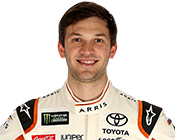
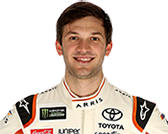
fixed card front sizes for 5 drivers

diff --git a/Index.html b/Index.html
@@ -30,15 +30,14 @@
 </head>
 <body>
 <div class="background">
-    <img src="Images/background/Jimmie_2048x1309.jpg" class="background" class="img-responsive">
-
+    <img src="Images/background/Jimmie_2048x1309.jpg" class="background img-responsive">
 </div>
 <div class="container-fluid">
     <div class="header">
-        <div class="logo col-xs-1">
+        <div class="logo col-xs-2">
             <button class="btn btn-default btn-xs dropdown-toggle" type="button" data-toggle="dropdown">Board<span class="caret"></span></button>
             <ul class="dropdown-menu">
-                <li><a href="index.html" class="daytona">Daytona Driver/Driver</a></li>
+                <li><a href="Index.html" class="daytona">Daytona Driver/Driver</a></li>
                 <li><a href="Daytona2.html" class="daytona">Daytona Driver/Car</a></li>
                 <li><a href="Charlotte.html" class="charlotte">Charlotte Driver/Driver</a></li>
                 <li><a href="Charlotte2.html" class="charlotte">Charlotte Driver/Car</a></li>
@@ -46,13 +45,13 @@
                 <li><a href="Bristol2.html" class="bristol">Bristol Driver/Car</a></li>
             </ul>
         </div>
-        <div class="logo col-xs-1">
+        <!--<div class="logo col-xs-1">
             <button class="btn btn-default btn-xs dropdown-toggle" type="button" data-toggle="dropdown">Level<span class="caret"></span></button>
             <ul class="dropdown-menu">
                 <li><a href="#">Easy</a></li>
                 <li><a href="#">Hard</a></li>
             </ul>
-        </div>
+        </div>-->
         <div class="stats matches col-xs-2">
             <p>Matches</p>
             <p id="matches">0</p>
@@ -69,11 +68,14 @@
             <p>Wins</p>
             <p id="wins">0</p>
         </div>
-        <div class="reset col-xs-2">
+        <div class="start col-xs-1">
+            <button type="button" class="btn btn-md btn-success" onclick="startTimer()">Start</button>
+        </div>
+        <div class="reset col-xs-1">
             <button type="button" class="btn btn-md btn-danger" onclick="reset()">Reset</button>
         </div>
-        <div class="progress col-xs-12">
-            <div id="timeleft" class="progress-bar" role="progressbar" aria-valuenow="100" aria-valuemin="0" aria-valuemax="100"                                                  style="width:100%"></div>
+        <div class="timer col-xs-12">
+            <div id="timeleft">50</div>
         </div>
     </div>
 

diff --git a/Daytona.js b/Daytona.js
@@ -12,7 +12,8 @@ var cards = [];
 var size = 9;
 var pick;
 var timer = null;
-var timeleft = $('#timeleft');
+var timerCount = 0;
+var progressbar = $('.progress-bar');
 var startOne = new Audio('Sounds/McConaugheyCommand.mp3');
 var startTime;
 //var cardArray = firebase.database();
@@ -22,6 +23,9 @@ var startTime;
 $(document).ready(function(){
     $('.card').click(pickCard);
     pickDriver();
+    $('.start').click(function() {
+        $(this).startTimer();
+    });
 });
 
 var cardArray = [
@@ -92,7 +96,7 @@ var cardArray = [
 ];
 
 function pickDriver() {
-    //startOne.play();
+    startOne.play();
     for (var i=0; i<size; i++) {
         if (cards.length < size*2) {
             pick = Math.floor(Math.random() * (cardArray.length-1));
@@ -128,8 +132,10 @@ function pickDriver() {
 
 //create gameboard
 
+
+
 function buildDaytona () {
-    startTimer();
+    //startTimer();
     for (var x = 0; x < cards.length; x++) {
         $('#' + x).html("<img src='"+cards[x].driver+"' class='img-responsive img-thumbnail'>");
     }
@@ -138,7 +144,7 @@ function buildDaytona () {
 //READS VALUES OF BOTH CARDS
 
 /*function move() {
-    var elem = document.getElementById("timeleft");
+    var elem = document.getElementById("progress");
     var width = 1;
     var id = setInterval(frame, 500);
     function frame() {
@@ -169,20 +175,20 @@ function startTimer() {
     timer = setTimeout(updateProgress,100);
 }
 
-/*function resetTimer() {
+function resetTimer() {
     startTime = Date.now();
-    progressBar.css("width","100%");
+    progressbar.css("width","0%");
     timerCount = 0;
-}*/
+}
 
 function updateProgress() {
-    if (timer === 0) {
-        alert("Red Flag!");
-        //resetTimer();
+    if (timerCount == 50) {
+        //alert("Red Flag!");
+        resetTimer();
     } else {
-        timer--;
+        timerCount++;
         var percent = Math.floor(((Date.now() - startTime) / 5000) * 100);
-        timeleft.css("width",percent+"%");
+        progressbar.css("width",percent+"%");
     }
 
     timer = setTimeout(updateProgress,100);

diff --git a/Charlotte.html b/Charlotte.html
@@ -6,8 +6,26 @@
     <title>Charlotte Driver/Driver</title>
     <link rel="stylesheet" href="style.css">
     <link rel="stylesheet" href="https://maxcdn.bootstrapcdn.com/bootstrap/3.3.7/css/bootstrap.min.css">
-    <script src="https://ajax.googleapis.com/ajax/libs/jquery/3.2.0/jquery.min.js"></script>
+    <script src="https://ajax.googleapis.com/ajax/libs/jquery/3.2.1/jquery.min.js"></script>
     <script src="https://maxcdn.bootstrapcdn.com/bootstrap/3.3.7/js/bootstrap.min.js"></script>
+    <script src="https://www.gstatic.com/firebasejs/4.2.0/firebase.js"></script>
+    <script src="https://www.gstatic.com/firebasejs/4.2.0/firebase-app.js"></script>
+    <script src="https://www.gstatic.com/firebasejs/4.2.0/firebase-auth.js"></script>
+    <script src="https://www.gstatic.com/firebasejs/4.2.0/firebase-database.js"></script>
+    <script src="https://www.gstatic.com/firebasejs/4.2.0/firebase-messaging.js"></script>
+
+    <!--<script>
+        // Initialize Firebase
+        var config = {
+            apiKey: "AIzaSyAKRbLF2SwfrijlhT-cVrnQxffUN92tJ1I",
+            authDomain: "memory-match-c2204.firebaseapp.com",
+            databaseURL: "https://memory-match-c2204.firebaseio.com",
+            projectId: "memory-match-c2204",
+            storageBucket: "memory-match-c2204.appspot.com",
+            messagingSenderId: "38066082249"
+        };
+        firebase.initializeApp(config);
+    </script>-->
     <script src="Charlotte.js"></script>
 </head>
 <body>

diff --git a/Charlotte2.html b/Charlotte2.html
@@ -6,8 +6,26 @@
     <title>Charlotte Driver/Car</title>
     <link rel="stylesheet" href="style.css">
     <link rel="stylesheet" href="https://maxcdn.bootstrapcdn.com/bootstrap/3.3.7/css/bootstrap.min.css">
-    <script src="https://ajax.googleapis.com/ajax/libs/jquery/3.2.0/jquery.min.js"></script>
+    <script src="https://ajax.googleapis.com/ajax/libs/jquery/3.2.1/jquery.min.js"></script>
     <script src="https://maxcdn.bootstrapcdn.com/bootstrap/3.3.7/js/bootstrap.min.js"></script>
+    <script src="https://www.gstatic.com/firebasejs/4.2.0/firebase.js"></script>
+    <script src="https://www.gstatic.com/firebasejs/4.2.0/firebase-app.js"></script>
+    <script src="https://www.gstatic.com/firebasejs/4.2.0/firebase-auth.js"></script>
+    <script src="https://www.gstatic.com/firebasejs/4.2.0/firebase-database.js"></script>
+    <script src="https://www.gstatic.com/firebasejs/4.2.0/firebase-messaging.js"></script>
+
+    <!--<script>
+        // Initialize Firebase
+        var config = {
+            apiKey: "AIzaSyAKRbLF2SwfrijlhT-cVrnQxffUN92tJ1I",
+            authDomain: "memory-match-c2204.firebaseapp.com",
+            databaseURL: "https://memory-match-c2204.firebaseio.com",
+            projectId: "memory-match-c2204",
+            storageBucket: "memory-match-c2204.appspot.com",
+            messagingSenderId: "38066082249"
+        };
+        firebase.initializeApp(config);
+    </script>-->
     <script src="Charlotte2.js"></script>
 </head>
 <body>

diff --git a/Daytona2.html b/Daytona2.html
@@ -6,8 +6,26 @@
     <title>Daytona Driver/Car</title>
     <link rel="stylesheet" href="style.css">
     <link rel="stylesheet" href="https://maxcdn.bootstrapcdn.com/bootstrap/3.3.7/css/bootstrap.min.css">
-    <script src="https://ajax.googleapis.com/ajax/libs/jquery/3.2.0/jquery.min.js"></script>
+    <script src="https://ajax.googleapis.com/ajax/libs/jquery/3.2.1/jquery.min.js"></script>
     <script src="https://maxcdn.bootstrapcdn.com/bootstrap/3.3.7/js/bootstrap.min.js"></script>
+    <script src="https://www.gstatic.com/firebasejs/4.2.0/firebase.js"></script>
+    <script src="https://www.gstatic.com/firebasejs/4.2.0/firebase-app.js"></script>
+    <script src="https://www.gstatic.com/firebasejs/4.2.0/firebase-auth.js"></script>
+    <script src="https://www.gstatic.com/firebasejs/4.2.0/firebase-database.js"></script>
+    <script src="https://www.gstatic.com/firebasejs/4.2.0/firebase-messaging.js"></script>
+
+    <!--<script>
+        // Initialize Firebase
+        var config = {
+            apiKey: "AIzaSyAKRbLF2SwfrijlhT-cVrnQxffUN92tJ1I",
+            authDomain: "memory-match-c2204.firebaseapp.com",
+            databaseURL: "https://memory-match-c2204.firebaseio.com",
+            projectId: "memory-match-c2204",
+            storageBucket: "memory-match-c2204.appspot.com",
+            messagingSenderId: "38066082249"
+        };
+        firebase.initializeApp(config);
+    </script>-->
     <script src="Daytona2.js"></script>
 </head>
 <body>

diff --git a/Bristol.html b/Bristol.html
@@ -6,9 +6,26 @@
     <title>Bristol Driver/Driver</title>
     <link rel="stylesheet" href="style.css">
     <link rel="stylesheet" href="https://maxcdn.bootstrapcdn.com/bootstrap/3.3.7/css/bootstrap.min.css">
-    <script src="libraries/jquery.min.js"></script>
+    <script src="https://ajax.googleapis.com/ajax/libs/jquery/3.2.1/jquery.min.js"></script>
     <script src="https://maxcdn.bootstrapcdn.com/bootstrap/3.3.7/js/bootstrap.min.js"></script>
     <script src="https://www.gstatic.com/firebasejs/4.2.0/firebase.js"></script>
+    <script src="https://www.gstatic.com/firebasejs/4.2.0/firebase-app.js"></script>
+    <script src="https://www.gstatic.com/firebasejs/4.2.0/firebase-auth.js"></script>
+    <script src="https://www.gstatic.com/firebasejs/4.2.0/firebase-database.js"></script>
+    <script src="https://www.gstatic.com/firebasejs/4.2.0/firebase-messaging.js"></script>
+
+    <!--<script>
+        // Initialize Firebase
+        var config = {
+            apiKey: "AIzaSyAKRbLF2SwfrijlhT-cVrnQxffUN92tJ1I",
+            authDomain: "memory-match-c2204.firebaseapp.com",
+            databaseURL: "https://memory-match-c2204.firebaseio.com",
+            projectId: "memory-match-c2204",
+            storageBucket: "memory-match-c2204.appspot.com",
+            messagingSenderId: "38066082249"
+        };
+        firebase.initializeApp(config);
+    </script>-->
     <script src="Bristol.js"></script>
 </head>
 <body>

diff --git a/Bristol2.html b/Bristol2.html
@@ -6,8 +6,26 @@
     <title>Bristol Driver/Car</title>
     <link rel="stylesheet" href="style.css">
     <link rel="stylesheet" href="https://maxcdn.bootstrapcdn.com/bootstrap/3.3.7/css/bootstrap.min.css">
-    <script src="libraries/jquery.min.js"></script>
+    <script src="https://ajax.googleapis.com/ajax/libs/jquery/3.2.1/jquery.min.js"></script>
     <script src="https://maxcdn.bootstrapcdn.com/bootstrap/3.3.7/js/bootstrap.min.js"></script>
+    <script src="https://www.gstatic.com/firebasejs/4.2.0/firebase.js"></script>
+    <script src="https://www.gstatic.com/firebasejs/4.2.0/firebase-app.js"></script>
+    <script src="https://www.gstatic.com/firebasejs/4.2.0/firebase-auth.js"></script>
+    <script src="https://www.gstatic.com/firebasejs/4.2.0/firebase-database.js"></script>
+    <script src="https://www.gstatic.com/firebasejs/4.2.0/firebase-messaging.js"></script>
+
+    <!--<script>
+        // Initialize Firebase
+        var config = {
+            apiKey: "AIzaSyAKRbLF2SwfrijlhT-cVrnQxffUN92tJ1I",
+            authDomain: "memory-match-c2204.firebaseapp.com",
+            databaseURL: "https://memory-match-c2204.firebaseio.com",
+            projectId: "memory-match-c2204",
+            storageBucket: "memory-match-c2204.appspot.com",
+            messagingSenderId: "38066082249"
+        };
+        firebase.initializeApp(config);
+    </script>-->
     <script src="Bristol2.js"></script>
 </head>
 <body>

diff --git a/style.css b/style.css
@@ -55,3 +55,4 @@ button {
     position: absolute;
     top: 0;
 }
+
